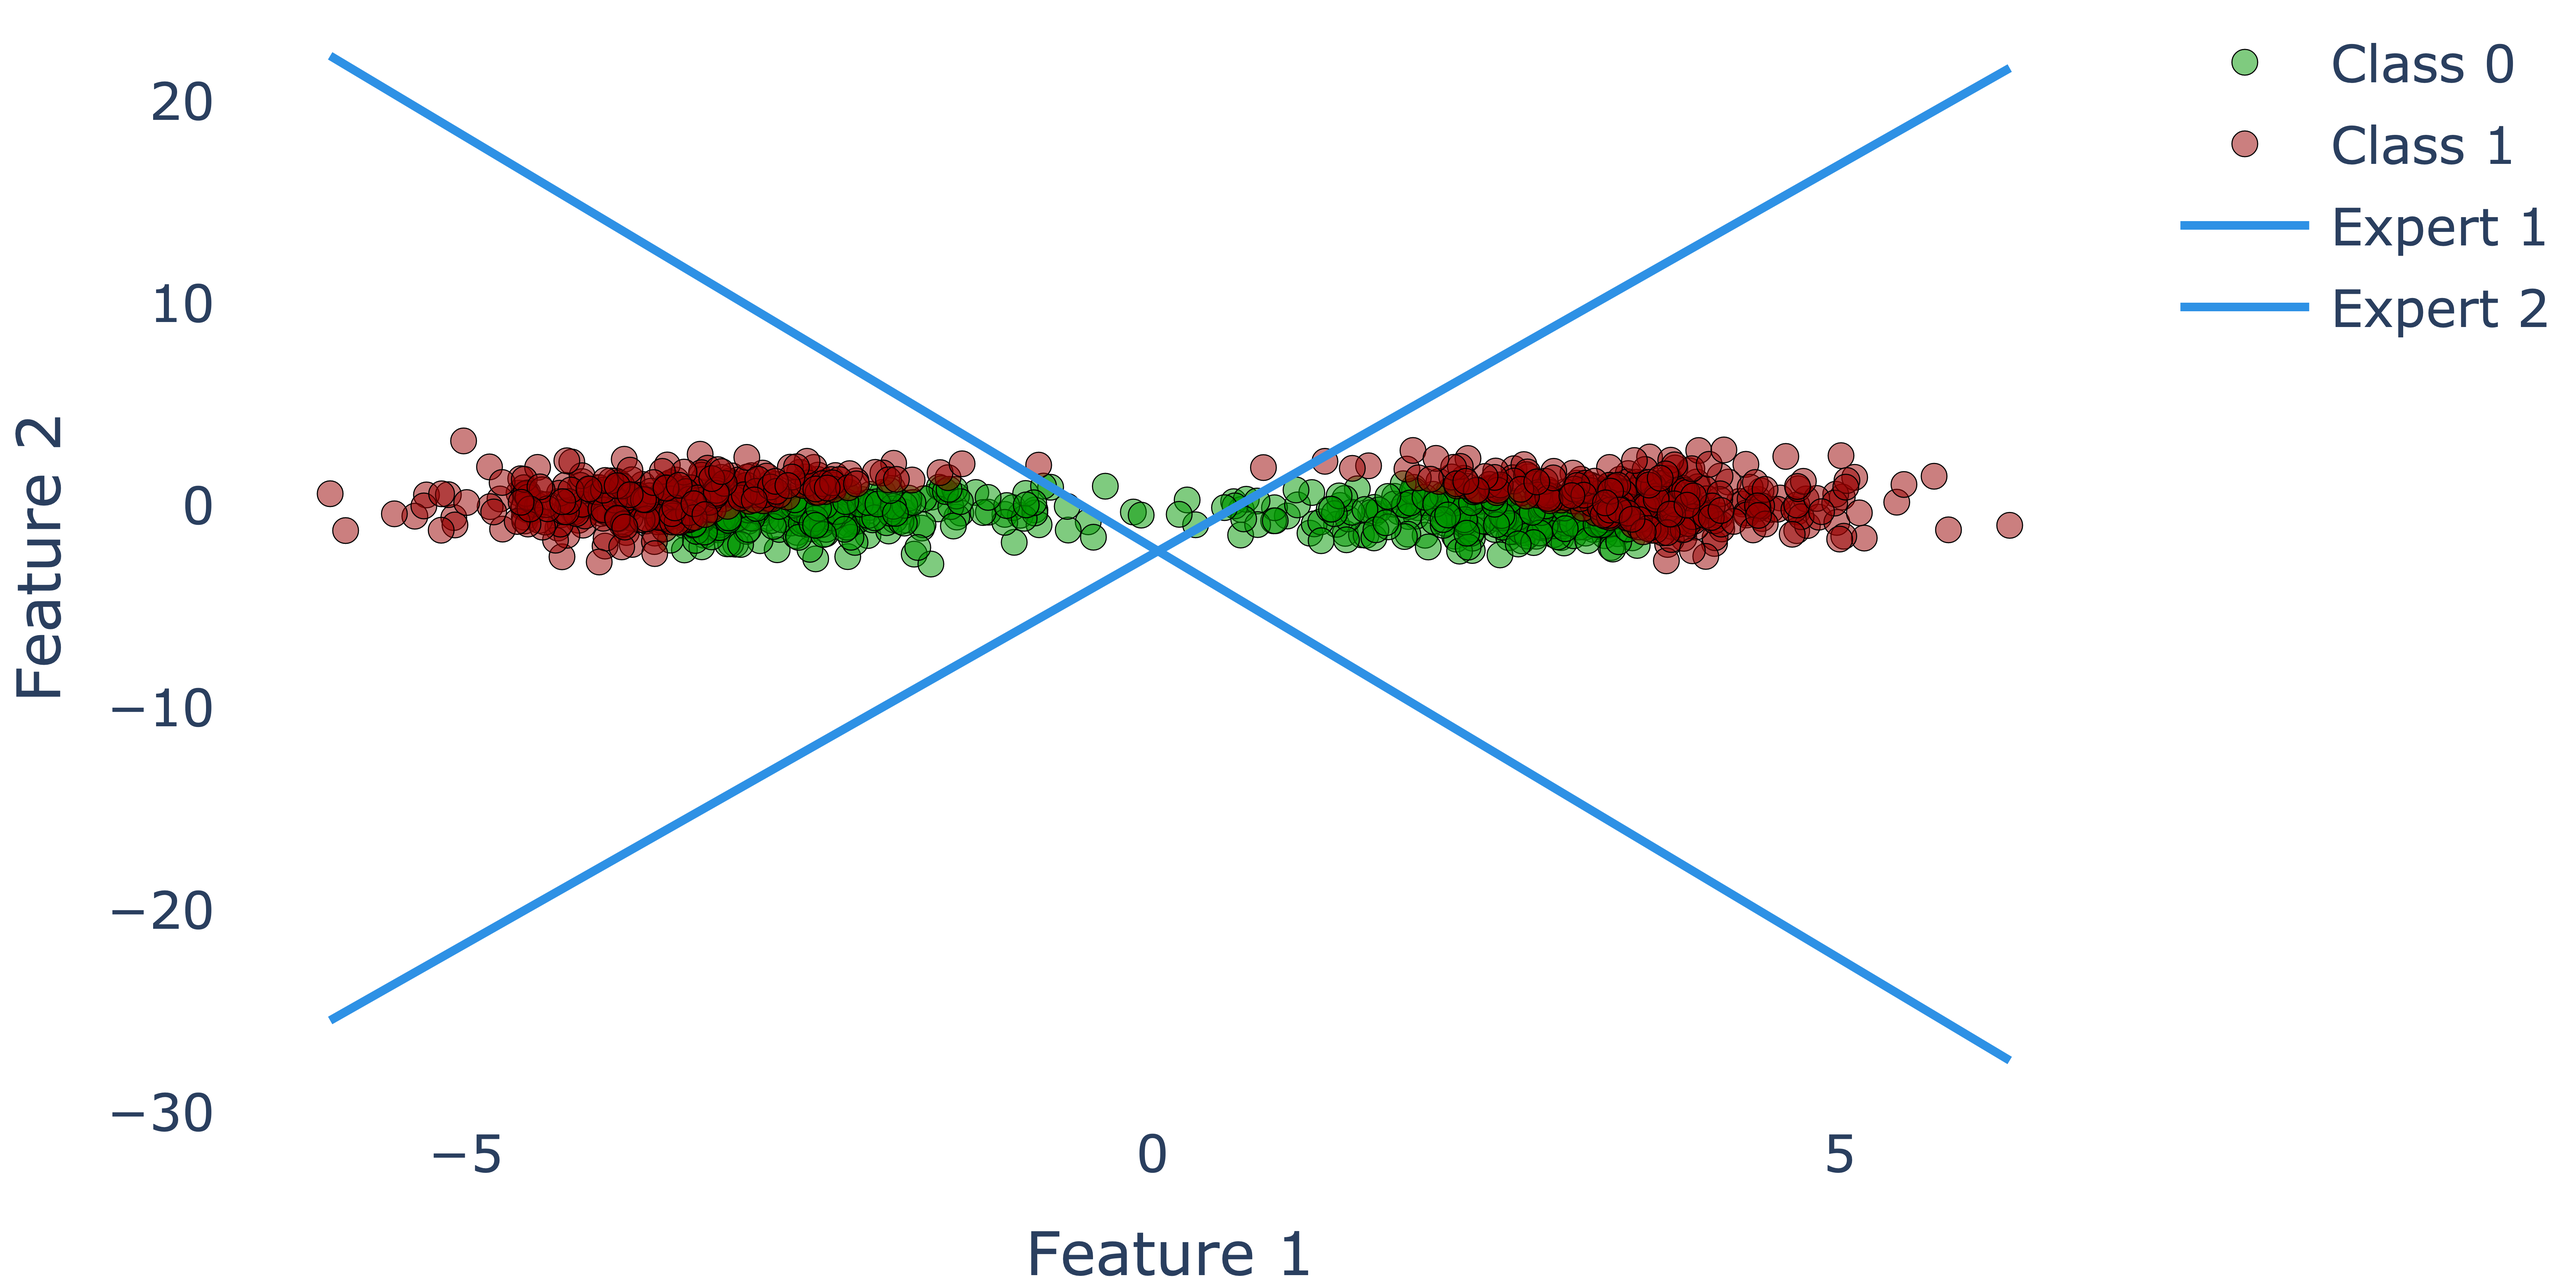
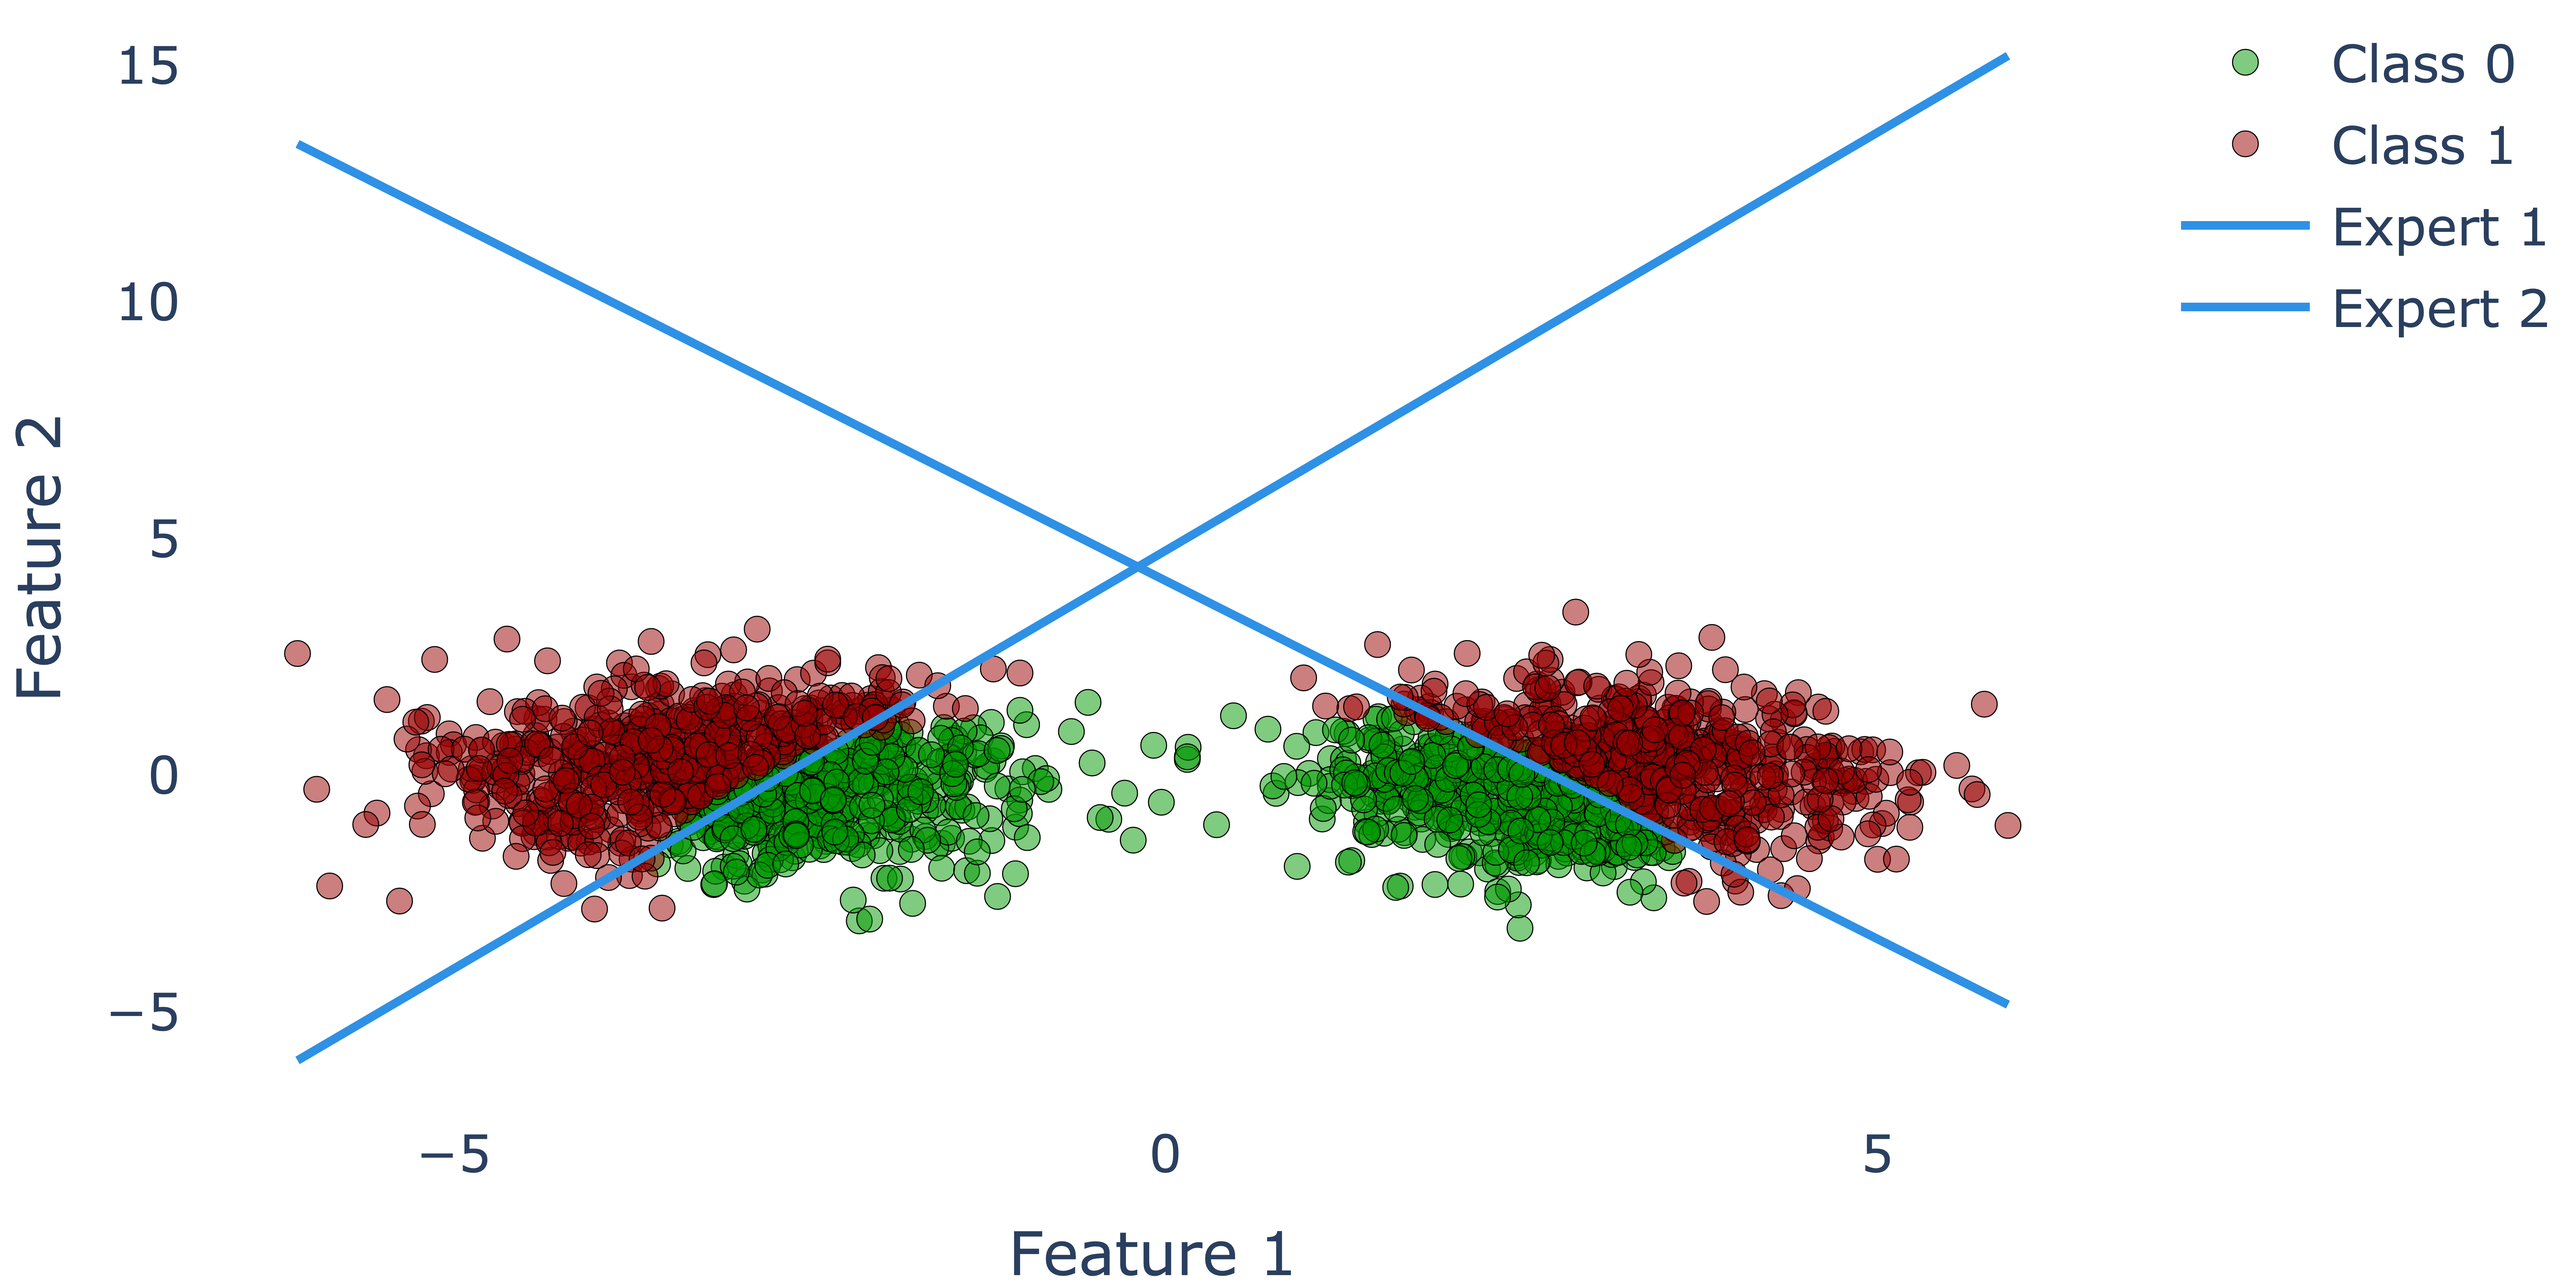
files are updated

diff --git a/mixture-of-experts.py b/mixture-of-experts.py
@@ -12,8 +12,10 @@ from tqdm import tqdm
 
 import plotly.graph_objects as go
 
+n_samples = 2000
+
 # Generate the Dataset
-def generate_data(n_samples=1000):
+def generate_data(n_samples=n_samples):
   X = torch.zeros(n_samples, 2)
   y = torch.zeros(n_samples, dtype=torch.long)
 
@@ -40,7 +42,7 @@ scatter_class_0 = go.Scatter(
     x=class_0[:, 0],
     y=class_0[:, 1],
     mode='markers',
-    marker=dict(color='rgba(152, 0, 0, 0.5)'),
+    marker=dict(color='rgba(0, 152, 0, 0.5)'),
     name='Class 0'
 )
 
@@ -48,7 +50,7 @@ scatter_class_1 = go.Scatter(
     x=class_1[:, 0],
     y=class_1[:, 1],
     mode='markers',
-    marker=dict(color='rgba(0, 152, 0, 0.5)'),
+    marker=dict(color='rgba(152, 0, 0, 0.5)'),
     name='Class 1'
 )
 
@@ -63,6 +65,7 @@ layout = go.Layout(
 )
 
 fig = go.Figure(data=[scatter_class_0, scatter_class_1], layout=layout)
+y_limits = fig.layout.yaxis.range
 fig.write_image("figures/output_3_0.png", scale = 8, width=600, height=400)
 
 class Expert(nn.Module):
@@ -103,12 +106,11 @@ class MixtureOfExperts(nn.Module):
     
     gating_output =  self.gating(data)
 
-    s = (expert1_output*gating_output[:,0][:,None] + 
-         expert2_output*gating_output[:,1][:,None])
+    mixed_output = gating_output[:,0] * expert1_output.squeeze() + gating_output[:,1] * expert2_output.squeeze()
     
-    a = self.sigmoid(s)
+    mixed_output_sigmoid = self.sigmoid(mixed_output)
     
-    return a
+    return mixed_output_sigmoid
 
   def backward(self, y_hat, labels, criterion, optimizer): 
     optimizer.zero_grad()
@@ -122,39 +124,34 @@ moe = MixtureOfExperts()
 criterion = nn.MSELoss() 
 optimizer = torch.optim.Adam(moe.parameters(),lr=0.01)
 
-# Define the learning rate scheduler
-scheduler = torch.optim.lr_scheduler.ConstantLR(optimizer) 
-
 # Convert data and labels to float tensors
 data_tensor = data.float()
-labels_tensor = labels.view(-1, 1).float()
+labels_tensor = labels.float()
 
 # Training loop
 num_epochs = 2000
 for epoch in tqdm(range(num_epochs)):
     # Forward pass
     y_hat = moe.forward(data)
-
+    
     # Backward pass and optimization
     loss_value = moe.backward(y_hat, labels_tensor, criterion, optimizer)
 
-    # Decay the learning rate
-    scheduler.step()
+print(sum(torch.round(y_hat).squeeze() == labels)/n_samples)
 
-print(sum(torch.round(y_hat).squeeze() == labels)/1000)
+w11 = moe.expert1.linear.weight[0][0].detach()
+w12 = moe.expert1.linear.weight[0][1].detach()
 
-expert1_weights = moe.expert1.linear.weight.detach()[0,0]
-expert2_weights = moe.expert2.linear.weight.detach()[0,0]
+w21 = moe.expert2.linear.weight[0][0].detach()
+w22 = moe.expert2.linear.weight[0][1].detach()
 
-expert1_bias = moe.expert1.linear.bias.detach()
-expert2_bias = moe.expert2.linear.bias.detach()
+b1 = moe.expert1.linear.bias.detach()
+b2 = moe.expert2.linear.bias.detach()
 
-gating_weights = moe.gating.linear2.weight.detach().flatten()
+x_range = np.linspace(min(data[:,0]), max(data[:,0]))
 
-x_line = np.linspace(min(data[:, 0]), max(data[:, 0]), 100)
-
-y_line1 = expert1_weights * x_line + expert1_bias
-y_line2 = expert2_weights * x_line + expert2_bias
+y_line1 = -(w11 * x_range + b1) / w12 + 2.5
+y_line2 = -(w21 * x_range + b2) / w22 + 2.5
 
 class_0 = data[labels == 0]
 class_1 = data[labels == 1]
@@ -179,7 +176,7 @@ scatter_class_1 = go.Scatter(
 
 # Line plots for Expert 1 and Expert 2
 line_expert_1 = go.Scatter(
-    x=x_line,
+    x=x_range,
     y=y_line1,
     mode='lines',
     line=dict(color='#2E91E5'),
@@ -187,7 +184,7 @@ line_expert_1 = go.Scatter(
 )
 
 line_expert_2 = go.Scatter(
-    x=x_line,
+    x=x_range,
     y=y_line2,
     mode='lines',
     line=dict(color='#2E91E5'),

diff --git a/README.md b/README.md
@@ -93,7 +93,7 @@ class GatingNetwork(nn.Module):
     x = self.linear1(data)
     x = self.relu(x)
     x = self.linear2(x)
-    x = self.sigmoid(x)
+    x = self.softmax(x)
     return x
 ```
 
@@ -135,7 +135,6 @@ class MixtureOfExperts(nn.Module):
 ## Training Loop
 
 
-
 ```python
 # Define the model, loss, and optimizer
 moe = MixtureOfExperts()
@@ -163,14 +162,6 @@ for epoch in tqdm(range(num_epochs)):
 ```
 
     100%|███████████████████████████████████████| 500/500 [00:00<00:00, 1325.75it/s]
-
-
-
-```python
-print(sum(torch.round(y_hat).squeeze() == labels)/1000)
-```
-
-    tensor(0.9770)
 
 
 ## Decision Boundaries
